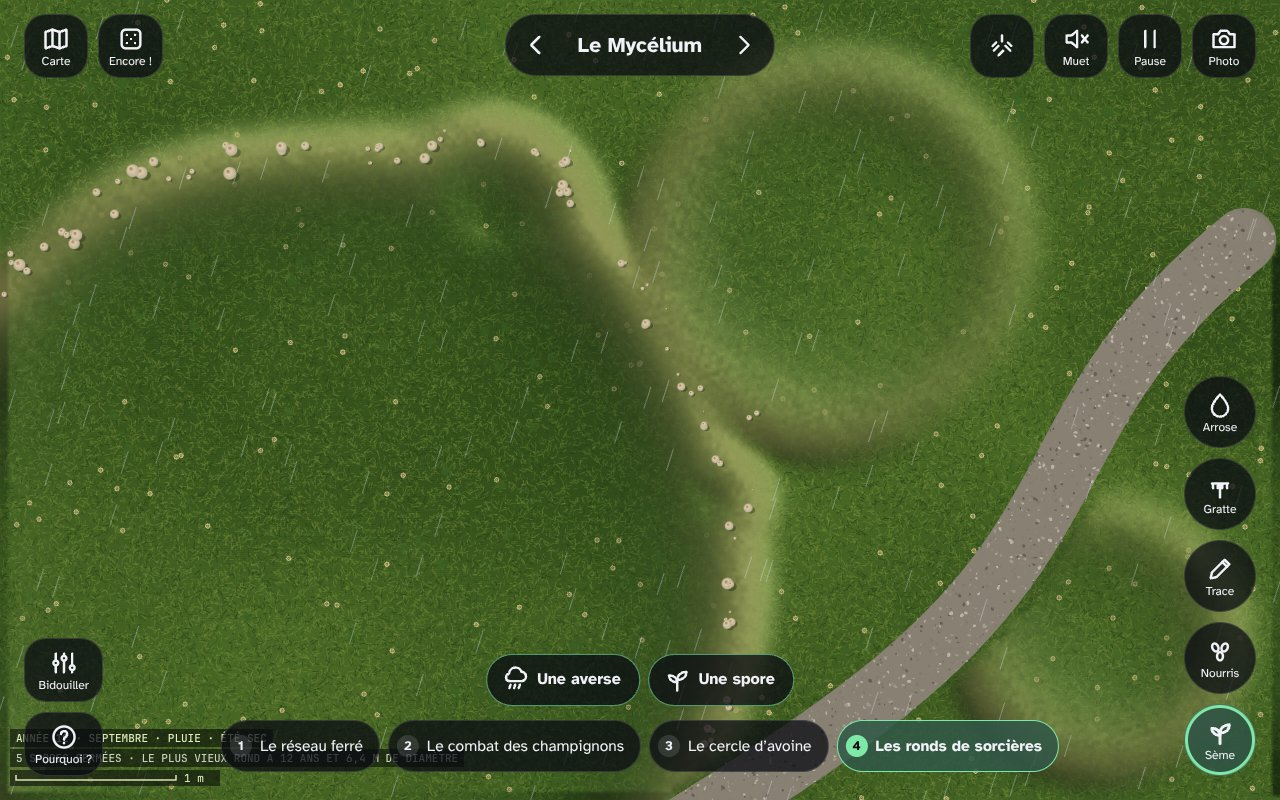
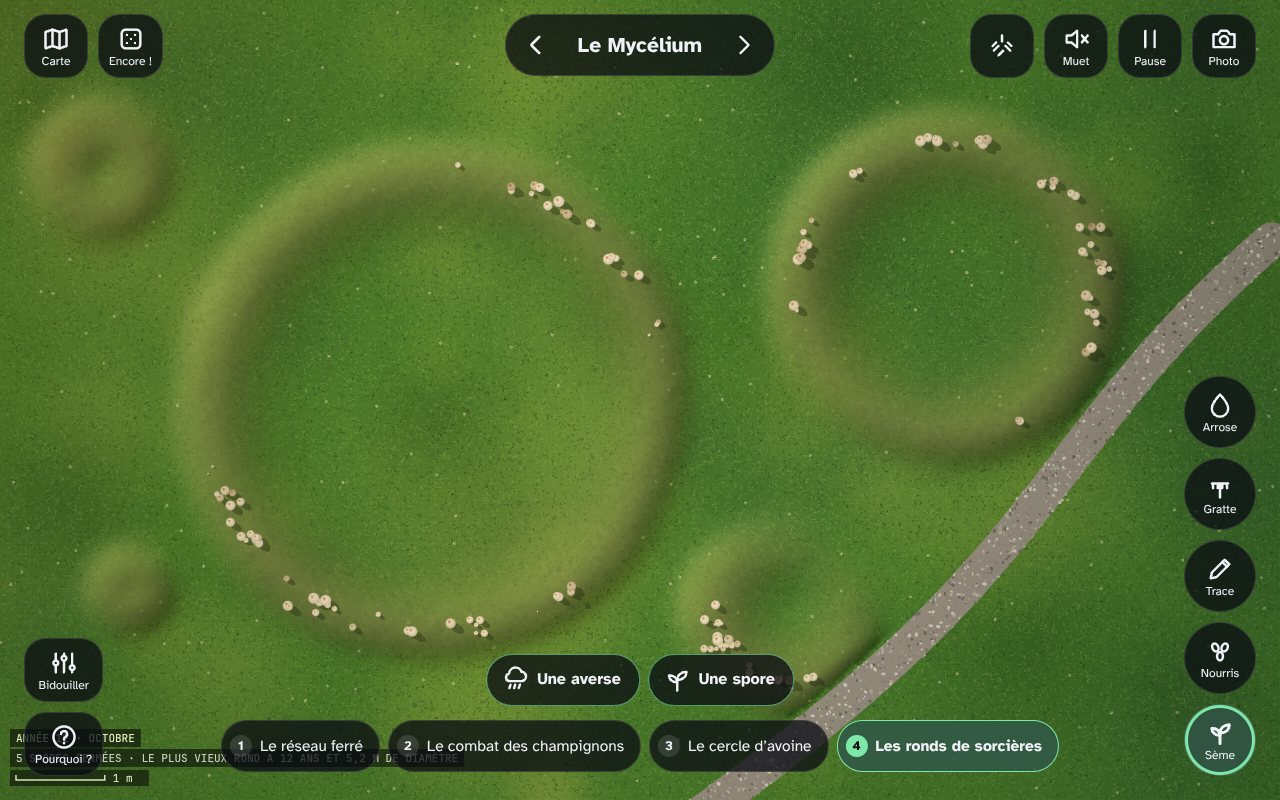
Ronds de sorcières : vue de drone à anneaux entiers, front indépendant de l'échelle, diamètre mesuré ; « à l'œil nu » pour l'auréole
- échelle plus haute (88 px/m en 1280, 43 en 390) et spores de départ dans la zone libre
- herbe de l'anneau en multiplication, relief en lumière douce, éclairé d'en haut à gauche comme les ombres
- cinétique : la digestion suit l'horloge de la croissance (kap ∝ c) ; sinon, sous 160 px/m, le front ne
  dépassait plus le seuil des champignons et avançait à 67 % de la vitesse affichée en 390 ; vitesse étalonnée (×1/0,82)
- diamètre du HUD mesuré sur la crête du mycélium (médiane de 16 rayons)
- départ en septembre après une pluie, champignons 2,5× (annoncé dans la notice)
- Soleil : la vraie couronne ne se voit « à l'œil nu » qu'aux éclipses (Kurt)

Claude-Session: https://claude.ai/code/session_01MS9d5JmMjbNw1P1jiRQA2y

diff --git a/app/js/machines/s-myce-ronds.js b/app/js/machines/s-myce-ronds.js
@@ -16,8 +16,10 @@
     const snd = () => !quiet && au && au.on;
     const V = () => env.view || { x0: 0, x1: W };
     const V0 = V(), VW = V0.x1 - V0.x0;
-    // échelle : environ 8 m de prairie dans la largeur visible
-    const PXM = clamp(Math.max(VW, H * 1.2) / 8, 70, 240);
+    // échelle : un drone assez haut pour voir des anneaux entiers. Le plus vieux (6 m environ au départ) tient
+    // dans la hauteur utile en paysage et dans la largeur en portrait ; le bas de l'écran porte les boutons.
+    const Y0 = V0.y0 || 0, YB = H * (H > W ? 0.83 : 0.86), PXM = clamp(Math.min(VW / 9, Math.max(120, YB - Y0) / 6.8), 34, 240);
+    const BX = (u) => V0.x0 + VW * u, BY = (v) => Y0 + (YB - Y0) * v;
     const CS = W * H > 1.6e6 ? 5 : 4, GW = Math.ceil(W / CS), GH = Math.ceil(H / CS), NC = GW * GH;
     const F32 = () => new Float32Array(NC);
     const F = F32(), F2 = F32(), S = F32(), S0 = F32(), N = F32(), G = F32().fill(1), BARE = F32(), BLK = new Uint8Array(NC);
@@ -34,17 +36,22 @@
     }
 
     const SB = S0.slice();
-    const hmax = () => 0.2 / Math.max(1, ((cfg.speed / 100) * PXM) / CS / (2 * Math.sqrt(1 - TH)) * 1.7);
+    // vitesse nominale du front, en cases par an ; le front réel, freiné par l'épuisement du sol, avance à 82 % de la
+    // vitesse de Fisher-KPP (mesuré en 1D) : on corrige, pour que « 25 cm par an » soit vrai à l'écran
+    const cNom = () => ((cfg.speed / 100) * PXM) / CS / 0.82;
+    const hmax = () => 0.2 / Math.max(1, cNom() / (2 * Math.sqrt(1 - TH)) * 1.7);
 
     /* l'herbe : une fois pour toutes, en haute résolution */
     const grass = layer(W, H);
     {
       const g = grass.g;
-      g.fillStyle = '#4d7a32'; g.fillRect(0, 0, W, H);
-      for (let i = 0; i < 70; i++) {
-        const x = rnd(W), y = rnd(H), r = rnd(1.6, 0.4) * PXM, gr = g.createRadialGradient(x, y, 0, x, y, r);
-        const c = Math.random() < 0.5 ? '96,140,58' : '52,88,32';
-        gr.addColorStop(0, `rgba(${c},.35)`); gr.addColorStop(1, `rgba(${c},0)`);
+      g.fillStyle = '#4c8230'; g.fillRect(0, 0, W, H);
+      // des taches de verts différents : herbe jeune (jaune-vert), trèfle (vert-bleu), herbe drue (sombre)
+      const PATCH = ['126,164,58', '56,104,52', '44,84,30', '150,170,74', '70,120,44'];
+      for (let i = 0; i < 90; i++) {
+        const x = rnd(W), y = rnd(H), r = rnd(1.8, 0.4) * PXM, gr = g.createRadialGradient(x, y, 0, x, y, r);
+        const c = PATCH[rint(PATCH.length)];
+        gr.addColorStop(0, `rgba(${c},.4)`); gr.addColorStop(1, `rgba(${c},0)`);
         g.fillStyle = gr; g.fillRect(x - r, y - r, 2 * r, 2 * r);
       }
       const COLS = ['rgba(120,168,70,.55)', 'rgba(88,134,52,.6)', 'rgba(60,100,38,.6)', 'rgba(150,186,92,.4)', 'rgba(40,74,28,.55)', 'rgba(170,190,110,.3)'];
@@ -57,6 +64,9 @@
         }
         g.stroke();
       }
+      // de petites ombres entre les touffes : l'herbe a de l'épaisseur
+      g.fillStyle = 'rgba(18,36,12,.28)';
+      for (let i = 0; i < (W * H) / 260; i++) { const x = rnd(W), y = rnd(H); g.fillRect(x, y, rnd(2.2, 1), rnd(2.2, 1)); }
       // trèfle et pâquerettes
       for (let i = 0; i < (W * H) / 9000; i++) {
         const x = rnd(W), y = rnd(H), r = L * 0.45;
@@ -77,7 +87,9 @@
       for (let i = 0; i < (snow.w * snow.h) / 30; i++) { g.fillStyle = Math.random() < 0.5 ? 'rgba(255,255,255,.7)' : 'rgba(170,186,200,.35)'; g.fillRect(rnd(snow.w), rnd(snow.h), 1, 1); }
     }
     const deco = layer(W, H); // allées de gravier
-    const tint = buf(GW, GH);
+    // trois calques de teinte : l'herbe drue en multiplication et le relief en lumière douce (la texture de l'herbe
+    // reste visible au travers, au lieu d'un aplat flou), la paille et la terre nue par-dessus
+    const tint = buf(GW, GH), tintM = buf(GW, GH), tintL = buf(GW, GH);
     const idx = (x, y) => { const gx = Math.floor(x / CS), gy = Math.floor(y / CS); return gx < 0 || gy < 0 || gx >= GW || gy >= GH ? -1 : gy * GW + gx; };
     function disk(x, y, r, fn) {
       const R = Math.ceil(r / CS), cx = Math.floor(x / CS), cy = Math.floor(y / CS);
@@ -110,8 +122,10 @@
     function step(h) {
       const m = month(), sf = GROW[m];
       // vitesse du front (Fisher-KPP) : c = 2·√(D·r·(S−seuil)) ; on prend D = r (en cases) pour un front de quelques cases
-      const c = ((cfg.speed / 100) * PXM) / CS, r = (c / (2 * Math.sqrt(1 - TH))) * sf, D = r;
-      const kap = 2.2 * Math.max(0.4, sf), regen = 0.035;
+      const c = cNom(), r = (c / (2 * Math.sqrt(1 - TH))) * sf, D = r;
+      // la digestion suit la même horloge que la croissance : le profil du front (et les champignons, qui sortent là où
+      // le mycélium est dense) ne dépend plus de l'échelle de l'écran ; c = 10 cases par an était le réglage d'origine
+      const kap = 2.2 * Math.max(0.4, sf) * (c / 10), regen = 0.035;
       for (let gy = 0; gy < GH; gy++) {
         const o = gy * GW;
         for (let gx = 0; gx < GW; gx++) {
@@ -159,15 +173,33 @@
         const i = front[rint(front.length)], x = ((i % GW) + Math.random()) * CS, y = (((i / GW) | 0) + Math.random()) * CS;
         const nb = 1 + rint(2);
         for (let q = 0; q < nb; q++) {
-          shrooms.push({ x: x + rnd(6, -6), y: y + rnd(6, -6), r: rnd(2.5, 1.1) * 0.01 * PXM * 1.6, t0: T, life: Math.max(0.06, 1.2 / cfg.year) * rnd(1.3, 0.8), hue: rnd(1) });
+          shrooms.push({ x: x + rnd(6, -6), y: y + rnd(6, -6), r: Math.max(1.3, rnd(2.5, 1.1) * 0.01 * PXM * 2.5), t0: T, life: Math.max(0.06, 1.2 / cfg.year) * rnd(1.3, 0.8), hue: rnd(1) });
         }
         if (snd() && Math.random() < 0.08) au.note(rnd(2400, 1600), 0.04, 'sine', 0.012);
       }
     }
 
+    let diam = 0; // diamètre mesuré du plus vieux rond, en mètres (0 : pas mesurable)
     function scanFront() {
       front = [];
       for (let i = 0; i < NC; i++) if (F[i] > 0.4 && S[i] > TH * 0.8) front.push(i);
+      // on mesure le vrai front plutôt que la formule (le démarrage et la courbure le retardent) : la crête du mycélium,
+      // là où sortent les champignons (pas sa traîne affamée, à l'intérieur), médiane de 16 rayons
+      diam = 0;
+      const sp = spores[0];
+      if (!sp) return;
+      const hits = [];
+      for (let k = 0; k < 16; k++) {
+        const a = (k / 16) * TAU, ca = Math.cos(a), sa = Math.sin(a);
+        let best = 0, bd = 0;
+        for (let d = CS; d < W + H; d += CS) {
+          const i = idx(sp.x + ca * d, sp.y + sa * d);
+          if (i < 0 || BLK[i]) { bd = 0; break; }
+          if (F[i] > best) { best = F[i]; bd = d; } else if (best > 0.3 && F[i] < best * 0.5) break;
+        }
+        if (best > 0.3 && bd) hits.push(bd);
+      }
+      if (hits.length >= 6) { hits.sort((p, q) => p - q); diam = (2 * hits[hits.length >> 1]) / PXM; }
     }
 
     function paintTint() {
@@ -184,21 +216,26 @@
           d[o] = R; d[o + 1] = Gc; d[o + 2] = B; d[o + 3] = 255;
         }
       } else {
+        const dm = tintM.d, dl = tintL.d;
         for (let i = 0; i < NC; i++) {
           const o = i * 4;
-          if (BLK[i]) { d[o + 3] = 0; continue; }
-          // vert sombre : l'azote libéré ; paille : l'herbe desséchée ; brun : terre nue ou tas de feuilles
+          if (BLK[i]) { d[o + 3] = 0; dm[o] = dm[o + 1] = dm[o + 2] = 255; dl[o + 3] = 0; continue; }
+          // vert sombre : l'azote libéré, une herbe plus drue (multipliée sur l'herbe, donc texturée)
+          const n = clamp((N[i] - 0.03) * 1.9, 0, 1);
+          dm[o] = 255 - n * 150; dm[o + 1] = 255 - n * 92; dm[o + 2] = 255 - n * 165;
+          // cette herbe est plus haute : le côté tourné vers le soleil (en haut à gauche, comme l'ombre des champignons)
+          // s'éclaire, l'autre s'assombrit
+          const gx = (N[i + 2] || 0) - (N[i - 2] || 0), gy = (N[i + 2 * GW] || 0) - (N[i - 2 * GW] || 0), sh = clamp((gx + gy) * 2.6, -1, 1);
+          if (sh > 0) { dl[o] = 255; dl[o + 1] = 246; dl[o + 2] = 200; dl[o + 3] = sh * 200; } else { dl[o] = dl[o + 1] = dl[o + 2] = 0; dl[o + 3] = -sh * 210; }
+          // paille : l'herbe desséchée ; brun : terre nue ou tas de feuilles
           let r = 0, g = 0, b = 0, a = 0;
           const add = (cr, cg, cb, ca) => { if (ca <= 0) return; const na = ca + a * (1 - ca); r = (cr * ca + r * a * (1 - ca)) / na; g = (cg * ca + g * a * (1 - ca)) / na; b = (cb * ca + b * a * (1 - ca)) / na; a = na; };
-          add(10, 60, 8, Math.min(0.8, N[i] * 1.05));
-          // l'herbe de l'anneau, plus haute et plus drue : un côté au soleil, l'autre dans son ombre (un relief, pas un aplat)
-          const gx = (N[i + 2] || 0) - (N[i - 2] || 0), gy = (N[i + 2 * GW] || 0) - (N[i - 2 * GW] || 0), sh = clamp((gy - gx) * 3.2, -1, 1);
-          if (sh > 0) add(206, 236, 130, sh * 0.5); else add(4, 16, 2, -sh * 0.6);
           add(204, 180, 112, (1 - G[i]) * 0.88);
           add(92, 66, 42, BARE[i] * 0.95);
           const ex = S[i] - S0[i] - 0.15; if (ex > 0) add(78, 52, 30, Math.min(0.85, ex * 0.8));
           d[o] = r; d[o + 1] = g; d[o + 2] = b; d[o + 3] = a * 255;
         }
+        tintM.flush(); tintL.flush();
       }
       tint.flush();
     }
@@ -224,16 +261,23 @@
       const P = [];
       for (let k = 0; k <= 40; k++) { const u = k / 40; P.push([V0.x0 + VW * (0.52 + 0.5 * u) + Math.sin(u * 5) * PXM * 0.4, H * (1.05 - 0.75 * u)]); }
       lastG = null; for (const [x, y] of P) pathTo(x, y); lastG = null;
-      const plan = [[0, 0.24, 0.72], [4, 0.66, 0.3], [7, 0.86, 0.78], [9, 0.38, 0.28], [10.5, 0.55, 0.62]];
+      // [année, position dans la zone libre] : des anneaux entiers d'âges différents, deux près de se rencontrer
+      const plan = H > W
+        ? [[0, 0.42, 0.36], [4, 0.62, 0.86], [7, 0.18, 0.66], [9, 0.84, 0.1], [10.5, 0.18, 0.06]]
+        : [[0, 0.34, 0.52], [4, 0.74, 0.34], [7, 0.62, 0.86], [9, 0.08, 0.14], [10.5, 0.1, 0.84]];
       let pi = 0;
-      while (T < 12.6) {
-        while (pi < plan.length && T >= plan[pi][0]) { seed(V0.x0 + VW * plan[pi][1], H * plan[pi][2], true); pi++; }
+      while (T < 12.7) {
+        while (pi < plan.length && T >= plan[pi][0]) { seed(BX(plan[pi][1]), BY(plan[pi][2]), true); pi++; }
         step(Math.min(0.02, hmax()));
       }
       drought = 1;
-      scanFront(); paintTint();
+      // on arrive un matin de septembre, juste après une pluie : les champignons sont sortis sur les anneaux
+      scanFront(); rain = 1; for (let k = 0; k < 8; k++) flush(0.01); rain = 0;
+      for (const s of shrooms) s.t0 -= rnd(0.45) * s.life;
+      paintTint();
     }
     quiet = false;
+    if (window.FASC_DEBUG) window.FASC_DEBUG.ronds = { cfg, PXM, get T() { return T; }, get front() { return front.length; }, get shrooms() { return shrooms; }, get diam() { return diam; }, get spores() { return spores; }, probe(x, y) { const i = idx(x, y); return i < 0 ? null : [F[i], S[i], N[i]]; } };
     const drones = [];
     if (au) drones.push(au.drone(98, 'sine', 0.012), au.drone(147, 'sine', 0.006));
 
@@ -242,10 +286,14 @@
       ctx.save(); ctx.font = '500 11px "JetBrains Mono", monospace';
       const line = (txt, y, strong) => { const w = ctx.measureText(txt).width; ctx.fillStyle = 'rgba(10,14,8,.62)'; ctx.fillRect(x0 - 6, y - 13, w + 12, 18); ctx.fillStyle = strong ? 'rgba(236,246,200,.96)' : 'rgba(230,236,220,.85)'; ctx.fillText(txt, x0, y); };
       const yr = Math.floor(T), m = month();
-      let y = H - 58;
-      line(`ANNÉE ${yr} · ${MOIS[m].toUpperCase()}${rain ? ' · PLUIE' : ''}${m >= 5 && m <= 8 && drought > 1.1 ? ' · ÉTÉ SEC' : ''}`, y, true); y += 20;
-      const old = spores.length ? T - spores[0].t0 : 0;
-      line(`${spores.length} SPORES GERMÉES · LE PLUS VIEUX ROND A ${Math.floor(old)} ANS ET ${fr(2 * old * cfg.speed / 100, 1)} M DE DIAMÈTRE`, y); y += 20;
+      // les lignes passent à la ligne aux « · » sur un écran étroit (la deuxième était coupée en 390 px)
+      const old = spores.length ? T - spores[0].t0 : 0, maxW = v.x1 - v.x0 - 40;
+      const wrap = (t) => { const out = []; let cur = ''; for (const part of t.split(' · ')) { const nx = cur ? cur + ' · ' + part : part; if (cur && ctx.measureText(nx).width > maxW) { out.push(cur); cur = part; } else cur = nx; } if (cur) out.push(cur); return out; };
+      const L1 = wrap(`ANNÉE ${yr} · ${MOIS[m].toUpperCase()}${rain ? ' · PLUIE' : ''}${m >= 5 && m <= 8 && drought > 1.1 ? ' · ÉTÉ SEC' : ''}`);
+      const L2 = wrap(`${spores.length} SPORES GERMÉES · LE PLUS VIEUX ROND A ${Math.floor(old)} ANS${diam ? ` ET ${fr(diam, 1)} M DE DIAMÈTRE` : ''}`);
+      let y = H - 18 - (L1.length + L2.length) * 20;
+      for (const t of L1) { line(t, y, true); y += 20; }
+      for (const t of L2) { line(t, y); y += 20; }
       // échelle
       ctx.fillStyle = 'rgba(10,14,8,.62)'; ctx.fillRect(x0 - 6, y - 12, PXM + 50, 16);
       ctx.strokeStyle = 'rgba(236,246,200,.9)'; ctx.lineWidth = 1.5; ctx.beginPath(); ctx.moveTo(x0, y - 7); ctx.lineTo(x0, y - 2); ctx.lineTo(x0 + PXM, y - 2); ctx.lineTo(x0 + PXM, y - 7); ctx.stroke();
@@ -261,7 +309,7 @@
       }
       ctx.fillStyle = sh;
       ctx.beginPath();
-      for (const s of shrooms) { const age = (T - s.t0) / s.life, z = s.r * Math.min(1, age * 4); ctx.moveTo(s.x + z * 0.6 + z, s.y + z * 0.5); ctx.ellipse(s.x + z * 0.6, s.y + z * 0.5, z, z * 0.8, 0, 0, TAU); }
+      for (const s of shrooms) { const age = (T - s.t0) / s.life, z = s.r * Math.min(1, age * 4); ctx.moveTo(s.x + z * 1.3 + z * 1.5, s.y + z * 1.0); ctx.ellipse(s.x + z * 1.3, s.y + z * 1.0, z * 1.5, z * 0.75, 0.6, 0, TAU); }
       ctx.fill();
       for (const s of shrooms) {
         const age = (T - s.t0) / s.life, z = s.r * Math.min(1, age * 4), old = clamp((age - 0.6) / 0.4, 0, 1);
@@ -292,7 +340,7 @@
         snowA += (wantSnow - snowA) * Math.min(1, yrs * 30);
         if (cfg.auto && (nextSpore -= yrs) <= 0) {
           nextSpore = rnd(5, 2.5);
-          for (let k = 0; k < 30; k++) { const v = V(); if (seed(rnd(v.x1 - 30, v.x0 + 30), rnd(H - 30, 30))) break; }
+          for (let k = 0; k < 30; k++) { const v = V(); if (seed(rnd(v.x1 - 30, v.x0 + 30), rnd(H - 30, (v.y0 || 0) + 30))) break; }
         }
         if ((frontT -= dt) <= 0) { frontT = 0.25; scanFront(); }
         if ((tintT -= dt) <= 0) { tintT = 0.08; paintTint(); }
@@ -307,14 +355,26 @@
           ctx.drawImage(grass.c, 0, 0);
           // la saison, multipliée sur l'herbe
           const ph = (((T % 1) + 1) % 1) * 12, m0 = Math.floor(ph) % 12, m1 = (m0 + 1) % 12, u = ph - Math.floor(ph);
-          const sc = [0, 1, 2].map((k) => Math.round(SAISON[m0][k] * (1 - u) + SAISON[m1][k] * u));
+          const sc = [0, 1, 2].map((k) => Math.round(255 - (255 - (SAISON[m0][k] * (1 - u) + SAISON[m1][k] * u)) * 0.55));
           ctx.globalCompositeOperation = 'multiply'; ctx.fillStyle = `rgb(${sc[0]},${sc[1]},${sc[2]})`; ctx.fillRect(0, 0, W, H);
+          ctx.drawImage(tintM.c, 0, 0, GW * CS, GH * CS);
+          ctx.globalCompositeOperation = 'soft-light'; ctx.drawImage(tintL.c, 0, 0, GW * CS, GH * CS);
           ctx.globalCompositeOperation = 'source-over';
           ctx.drawImage(tint.c, 0, 0, GW * CS, GH * CS);
         }
         ctx.drawImage(deco.c, 0, 0);
         if (!cfg.sous) {
           drawShrooms();
+          // une lumière de fin de journée, comme sur une photo de drone : chaude d'un côté, plus fraîche de l'autre
+          // (atténuée sous la pluie), et un léger assombrissement des bords
+          {
+            const k = rain ? 0.45 : 1, lg = ctx.createLinearGradient(0, 0, W, H);
+            lg.addColorStop(0, `rgba(255,214,140,${(0.34 * k).toFixed(3)})`); lg.addColorStop(0.55, 'rgba(128,128,128,0)'); lg.addColorStop(1, `rgba(40,70,120,${(0.3 * k).toFixed(3)})`);
+            ctx.globalCompositeOperation = 'soft-light'; ctx.fillStyle = lg; ctx.fillRect(0, 0, W, H); ctx.globalCompositeOperation = 'source-over';
+            const vg = ctx.createRadialGradient(W / 2, H / 2, Math.min(W, H) * 0.35, W / 2, H / 2, Math.hypot(W, H) * 0.6);
+            vg.addColorStop(0, 'rgba(10,20,8,0)'); vg.addColorStop(1, 'rgba(10,20,8,.28)');
+            ctx.fillStyle = vg; ctx.fillRect(0, 0, W, H);
+          }
           if (snowA > 0.02) { ctx.globalAlpha = snowA * 0.72; ctx.drawImage(snow.c, 0, 0, W, H); ctx.globalAlpha = 1; }
           if (rain) {
             ctx.fillStyle = 'rgba(10,18,30,.1)'; ctx.fillRect(0, 0, W, H);   // la pluie assombrit un peu, sans voiler de gris
@@ -364,9 +424,9 @@
         L.push({ type: 'slider', label: 'Avancée du front', min: 5, max: 60, step: 1, value: cfg.speed, fmt: (v) => v + ' cm par an', set: (v) => { cfg.speed = v; } });
         L.push({ type: 'toggle', label: 'Des spores apportées par le vent', value: cfg.auto, set: (v) => { cfg.auto = v; } });
         L.push({ type: 'toggle', label: 'Voir sous la surface', value: cfg.sous, set: (v) => { cfg.sous = v; paintTint(); } });
-        L.push({ type: 'buttons', items: [{ label: 'Une averse', act: () => { rainT = 0.05; rain = 1; } }, { label: 'Une spore au hasard', act: () => { for (let k = 0; k < 30; k++) { const v = V(); if (seed(rnd(v.x1 - 30, v.x0 + 30), rnd(H - 30, 30))) break; } } }] });
+        L.push({ type: 'buttons', items: [{ label: 'Une averse', act: () => { rainT = 0.05; rain = 1; } }, { label: 'Une spore au hasard', act: () => { for (let k = 0; k < 30; k++) { const v = V(); if (seed(rnd(v.x1 - 30, v.x0 + 30), rnd(H - 30, (v.y0 || 0) + 30))) break; } } }] });
         L.push({ type: 'note', text: 'Ce que l’on voit, de l’intérieur vers l’extérieur d’un anneau : l’herbe redevenue normale (le sol est épuisé, le mycélium est mort), une bande vert sombre (l’azote libéré par la digestion), en été une bande jaunie (le feutrage de mycélium empêche l’eau d’entrer), puis le front lui-même. Les champignons sortent sur l’anneau après les pluies d’automne. Sous la surface : le mycélium en blanc, le front qui mange encore en doré, le sol épuisé en sombre.' });
-        L.push({ type: 'note', text: 'Essayez : une allée de gravier (TRACER) coupe l’anneau en arcs ; un tas de feuilles (NOURRIR) l’accélère et l’attire ; deux anneaux qui se rencontrent s’arrêtent net. Les champignons sont dessinés environ 1,6 fois plus grands que nature.' });
+        L.push({ type: 'note', text: 'Essayez : une allée de gravier (TRACER) coupe l’anneau en arcs ; un tas de feuilles (NOURRIR) l’accélère et l’attire ; deux anneaux qui se rencontrent s’arrêtent net. Les champignons sont dessinés environ 2,5 fois plus grands que nature (davantage sur un petit écran), sinon on ne les verrait pas d’aussi haut.' });
         return L;
       },
     };

diff --git a/app/js/machines/s-lave.js b/app/js/machines/s-lave.js
@@ -1220,7 +1220,7 @@ void main(){
       if (cfg.scene === 'soleil') {
         const R = Math.min(view().w, H) * 0.44, d = l.x ? Math.hypot(l.x - view().cx, l.y - H / 2) / R : 0;
         if (!cfg.zoom && d > 1.0 && d < 1.12) return ['Protubérance', 'gaz à environ 5 000 à 10 000 °C, bien plus froid que la couronne autour, à plus d’un million de degrés', '#ff6a3c'];
-        if (!cfg.zoom && d >= 1.12) return ['Auréole', 'de la lumière diffusée (dans l’instrument et dans l’air) ; la vraie couronne, l’atmosphère du Soleil à plus d’un million de degrés, ne se voit qu’aux éclipses', '#ffb070'];
+        if (!cfg.zoom && d >= 1.12) return ['Auréole', 'de la lumière diffusée (dans l’instrument et dans l’air) ; la vraie couronne, l’atmosphère du Soleil à plus d’un million de degrés, ne se voit à l’œil nu qu’aux éclipses', '#ffb070'];
         return ['Granulation', 'gaz chaud qui monte au centre des granules (≈ 6 000 °C), plus froid dans les couloirs sombres', '#ffd27a'];
       }
       const m = l.m;

diff --git a/docs/rendu/RENDU-A.md b/docs/rendu/RENDU-A.md
@@ -137,3 +137,21 @@ Retours de la recette (« un enfant de 5 ans dirait-il c'est moche ? »), repris
 
 
 - **Pause demandée par Yoann (13/11, 16 h 07)** : tout est poussé (2c13f37). Point de reprise : ajouter « à l’œil nu » dans le texte de l’auréole (« la vraie couronne… ne se voit à l’œil nu qu’aux éclipses », demande de Kurt), puis attendre le recontrôle de la qualité sur 2c13f37.
+
+## Reprise après la pause (13/11, 18 h 05 → 19 h)
+
+Trois demandes du CEO :
+
+1. **Soleil, auréole** : « la vraie couronne… ne se voit **à l’œil nu** qu’aux éclipses » (demande de Kurt). Les protubérances à « 5 000 à 10 000 °C » étaient déjà dans la v33.
+2. **Foudre** (Constance : lueurs 2 à 3 fois plus fortes, nuage bleu-gris) : c'était déjà fait avant la pause, dans a7c8d19. Les lueurs dans le nuage ont une amplitude de 0,9 à 2 (×0,45 avec `env.doux`) et le nuage est bleu ardoise (0,085 ; 0,095 ; 0,135). Captures `foudre-labo*.jpg`.
+3. **Ronds de sorcières** (« moches ») : on voit maintenant une vraie vue de drone, des anneaux entiers couronnés de champignons. Captures `mycelium-ronds-labo.jpg` et `mycelium-ronds-labo-tel.jpg` (avant : `mycelium-ronds-avant.jpg`).
+   - **Échelle** : le drone est plus haut, pour que les anneaux tiennent en entier. Il y a environ 88 px par mètre en 1280 × 800 et 43 px en 390 × 844 (contre 160 et 127 dans la v32). Les spores de départ sont placées dans la zone libre, sous la bande du haut et au-dessus des boutons du bas, avec un plan propre au portrait. Le plus vieux rond était coupé par le bord, et deux ronds passaient sous les boutons.
+   - **Texture** : l'herbe drue de l'anneau est multipliée sur l'herbe, et le relief passe en lumière douce. Les brins restent visibles au travers ; avant, c'était un aplat flou posé par-dessus. La lumière vient d'en haut à gauche, comme l'ombre des champignons et la lumière chaude de fin de journée. Le relief était éclairé d'en haut à droite, ce qui était incohérent.
+   - **Une erreur du modèle, corrigée** : le taux de croissance du mycélium (Fisher-KPP) était calé sur la vitesse du front comptée en cases, alors que la digestion du sol ne l'était pas. Plus l'écran montrait de prairie, moins le front était dense.
+     - Au-dessous de 160 px par mètre, il ne dépassait plus le seuil où sortent les champignons : il n'en restait aucun en 1280, comme en 390.
+     - Le front avançait en outre à 67 % de la vitesse affichée en 390.
+
+     La digestion suit maintenant la même horloge que la croissance (`kap ∝ c`), et le profil du front ne dépend plus de l'échelle. La vitesse est aussi étalonnée : l'épuisement du sol freine le front à 82 % de la vitesse théorique, et on compense. En 1D, on mesure 2,67, 5,5, 10,2 et 24 cases par an pour des cibles de 2,7, 5,55, 10 et 24.
+   - **Le diamètre affiché est mesuré** sur la crête du mycélium (médiane de 16 rayons), et non plus calculé par la formule. La formule annonçait 6,4 m pour un rond qui en mesure 5,5 en 1280 et 4,4 en 390 : le sol est plus ou moins riche, la croissance suit les saisons et un rond met du temps à démarrer.
+   - **Départ** : un matin de septembre, juste après une pluie ; les champignons sont déjà sortis sur les anneaux. Ils sont dessinés 2,5 fois plus grands que nature (1,6 fois avant ; c'est annoncé dans la notice), sinon on ne les verrait pas d'aussi haut. Les spores apportées par le vent ne tombent plus sous la bande du haut.
+   - **Hors de mon périmètre** : dans le Labo, le texte d'état en bas à gauche est caché par les boutons Bidouiller et Pourquoi. C'est le cas de toutes les machines qui écrivent en bas (Foudre, Lave, Réseau…) : c'est à décider côté shell.
